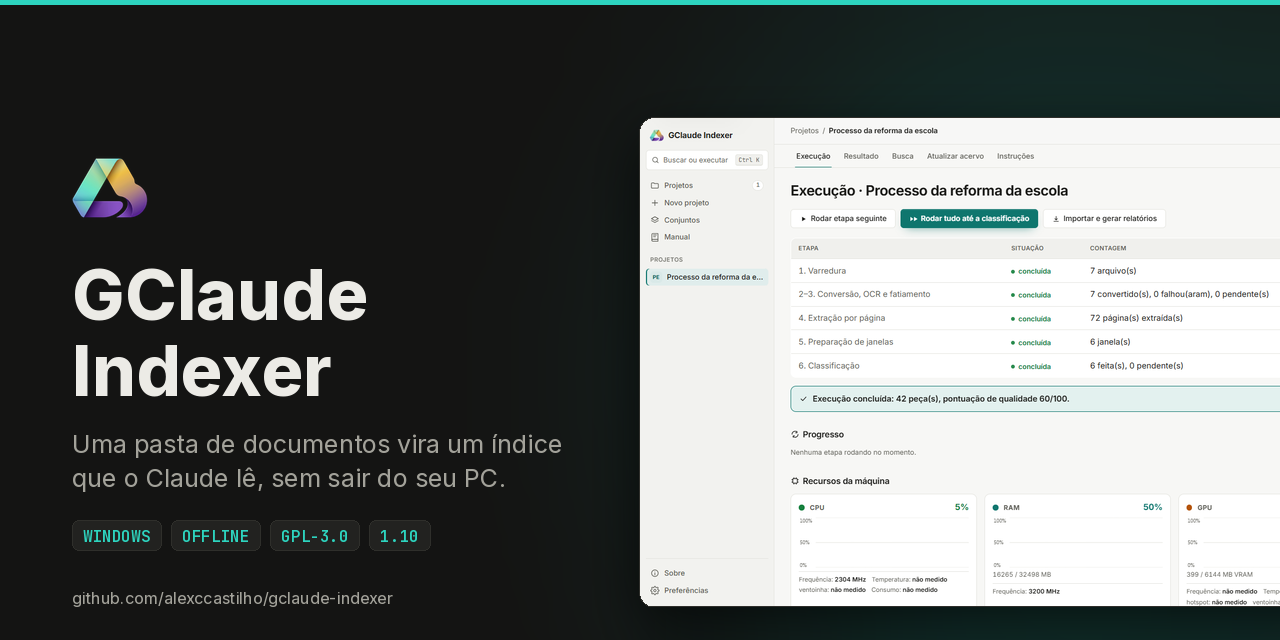
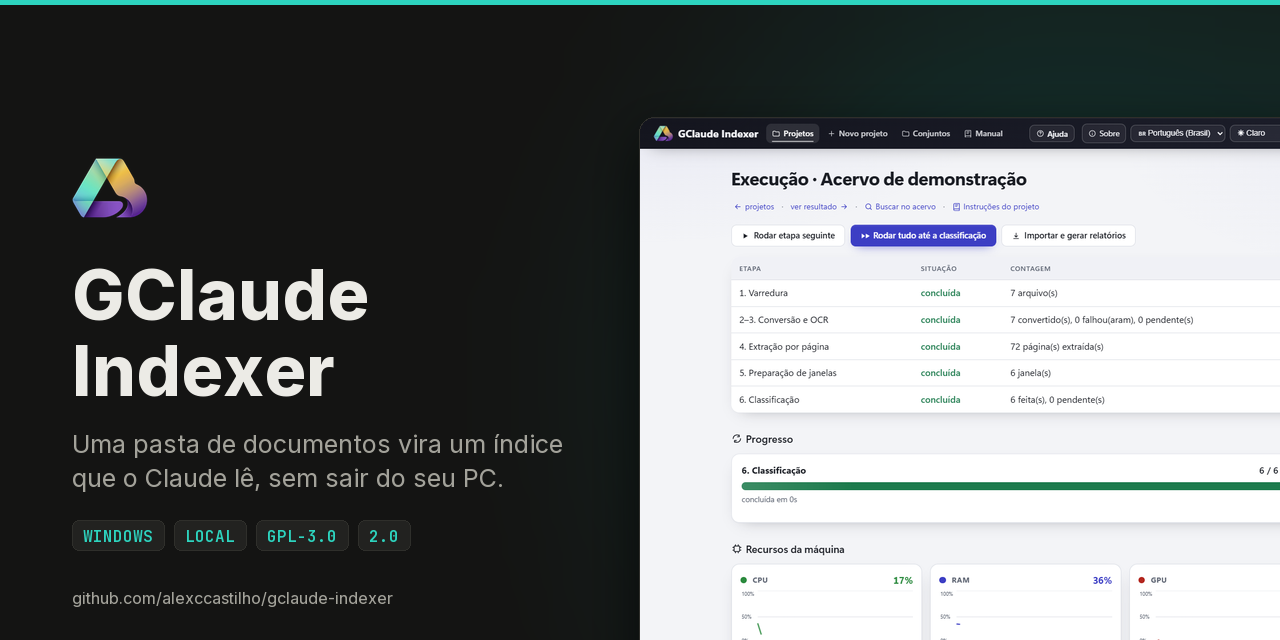
docs: correções da revisão da Task 16 (rede, motores, selo do social preview)
README e manual (pt, en, es) deixam de dizer que a única consulta externa é o
LexML: ela é a única que leva algo digitado, e o download único dos
componentes opcionais (fixados por SHA-256) é o outro uso da rede e não envia
nada dos documentos. CONTRIBUTING (pt, en, es) fala em dois motores mais o
automático, diz que o programa não chama o Claude Code e renomeia a seção que
dizia "offline". A especificação deixa de citar fatiamento, conta 14 temas e 5
layouts e não fala mais em design offline. READMEs trocam "fatiou" por
"partiu em duas", TECHNICAL passa a citar 1783 testes, SECURITY e manual
dizem que um LibreOffice 7.6 ou mais novo do sistema também é aceito, sem a
fixação por SHA-256, e a mensagem de componente pendente fica clara. O social
preview troca o selo OFFLINE por LOCAL, a versão por 2.0 e a imagem é refeita.

diff --git a/gclaude_indexer/web/templates/manual/es.html b/gclaude_indexer/web/templates/manual/es.html
@@ -135,7 +135,7 @@
 <h3>Componentes que se descargan una vez</h3>
 <p>Algunos formatos necesitan programas o datos que el instalador no trae. El programa descarga cada uno solo, una única vez, la primera vez que un documento lo necesita:</p>
 <ul>
-  <li><strong>LibreOffice</strong> (unos 370 MB), para los formatos antiguos. Corre sin ventana y sin macros, vínculos ni actualizador.</li>
+  <li><strong>LibreOffice</strong> (unos 370 MB), para los formatos antiguos. Corre sin ventana y sin macros, vínculos ni actualizador. Un LibreOffice 7.6 o más nuevo ya instalado en la máquina también se acepta; no lo cubre la fijación por SHA-256.</li>
   <li><strong>FFmpeg y whisper.cpp</strong>, con un modelo de transcripción (de 148 MB a 1,5 GB, según la computadora), para audio y vídeo.</li>
   <li><strong>Idiomas y escrituras del OCR</strong>, unos pocos MB cada uno, para páginas escaneadas en idiomas que el instalador no trajo.</li>
 </ul>
@@ -389,7 +389,7 @@
   <dt>Aparece "Solicitud rechazada"</dt><dd>Algún sitio web intentó enviar un comando al programa y fue bloqueado. Use siempre el acceso directo de GClaude Indexer o la dirección <code>http://127.0.0.1:8000</code>.</dd>
   <dt>LexML pidió verificación</dt><dd>El portal del Senado responde a los programas con una página de verificación. Abra el enlace mostrado y haga la búsqueda en el navegador.</dd>
   <dt>Archivos "ignorados" en la pantalla Ejecución</dt><dd>El programa deja fuera, a propósito, lo que no puede o no debe indexarse: comprimidos, ejecutables, bases de datos, fuentes, claves y contraseñas, binarios, medios que usted no marcó y accesos directos de Google Docs. Cada uno aparece con el motivo. Para indexar el contenido de un comprimido, extráigalo; para un acceso directo de Google, exporte el documento a DOCX, XLSX o PDF.</dd>
-  <dt>"Esperando un componente descargado bajo demanda"</dt><dd>El documento necesita LibreOffice, FFmpeg y whisper.cpp o un idioma del OCR que todavía no se descargó, y la descarga no fue posible (sin internet, o rechazada). Nada falló: el archivo vuelve a la cola en la próxima ejecución, cuando haya internet.</dd>
+  <dt>"Esperando un componente descargado bajo demanda"</dt><dd>El documento necesita un componente que todavía no se descargó (LibreOffice, FFmpeg con whisper.cpp o un idioma del OCR), y la descarga no fue posible (sin internet, o rechazada). Nada falló: el archivo vuelve a la cola en la próxima ejecución, cuando haya internet.</dd>
   <dt>Aviso de "Cambio de carpeta"</dt><dd>El proyecto tiene la salida dentro de la carpeta de origen. Abra el aviso y confirme el cambio, o aplácelo; vea <a href="#mudanca-de-pasta">Cambio de la carpeta de salida</a>.</dd>
 </dl>
 </section>
@@ -401,7 +401,7 @@
   <li>El programa solo acepta comandos de sus propias pantallas: un sitio web abierto en el navegador no puede darle órdenes.</li>
   <li>La carpeta de origen nunca se modifica.</li>
   <li>La base del proyecto guarda el texto de las páginas. Si el acervo contiene datos personales (LGPD), proteja la carpeta de salida como protegería los propios documentos, también en Google Drive.</li>
-  <li>La única consulta a un servicio externo es la búsqueda en LexML, que envía solo el término escrito: en la pantalla, solo con la casilla marcada; en <code>buscar.bat</code>, también cuando ninguna norma del acervo cita el término.</li>
+  <li>La única consulta que lleva algo que usted escribió es la búsqueda en LexML, que envía solo el término: en la pantalla, solo con la casilla marcada; en <code>buscar.bat</code>, también cuando ninguna norma del acervo cita el término. El otro uso de la red es la descarga única de los componentes opcionales (LibreOffice, FFmpeg, whisper.cpp, datos del OCR), fijados por SHA-256, que no envía nada de sus documentos.</li>
   <li>Al enviar archivos a Claude, entonces sí el contenido enviado pasa por su cuenta de Claude, según las condiciones de su plan.</li>
   <li>El programa solo descarga de internet lo que un documento necesita y el instalador no trajo (LibreOffice, FFmpeg, whisper.cpp y sus modelos, idiomas del OCR), de una lista fija con el SHA-256 de cada archivo. La solicitud lleva el nombre del componente, nunca el contenido de un documento. Sin internet, esos documentos se omiten con el motivo.</li>
 </ul>

diff --git a/gclaude_indexer/web/templates/manual/en.html b/gclaude_indexer/web/templates/manual/en.html
@@ -135,7 +135,7 @@
 <h3>Components that are downloaded once</h3>
 <p>Some formats need programs or data that the installer does not bring. The program downloads each one by itself, once, the first time a document needs it:</p>
 <ul>
-  <li><strong>LibreOffice</strong> (about 370 MB), for the old formats. It runs without a window and without macros, links or updater.</li>
+  <li><strong>LibreOffice</strong> (about 370 MB), for the old formats. It runs without a window and without macros, links or updater. A LibreOffice 7.6 or newer already installed on the machine is also accepted; it is not covered by the SHA-256 pin.</li>
   <li><strong>FFmpeg and whisper.cpp</strong>, with a transcription model (from 148 MB to 1.5 GB, depending on the computer), for audio and video.</li>
   <li><strong>OCR languages and scripts</strong>, a few MB each, for scanned pages in languages the installer did not bring.</li>
 </ul>
@@ -389,7 +389,7 @@
   <dt>"Request refused" appears</dt><dd>Some website tried to send a command to the program and was blocked. Always use the GClaude Indexer shortcut or the address <code>http://127.0.0.1:8000</code>.</dd>
   <dt>LexML asked for a check</dt><dd>The Senate's portal answers programs with a verification page. Open the link shown and run the search in the browser.</dd>
   <dt>"Ignored" files on the Execution screen</dt><dd>The program leaves out, on purpose, what cannot or should not be indexed: archives, executables, databases, fonts, keys and passwords, binaries, media you did not check and Google Docs shortcuts. Each one appears with the reason. To index the content of an archive, extract it; for a Google shortcut, export the document to DOCX, XLSX or PDF.</dd>
-  <dt>"Waiting for a component downloaded on demand"</dt><dd>The document needs LibreOffice, FFmpeg and whisper.cpp or an OCR language that has not been downloaded yet, and the download was not possible (no internet, or refused). Nothing failed: the file goes back to the queue in the next run, when there is internet.</dd>
+  <dt>"Waiting for a component downloaded on demand"</dt><dd>The document needs a component that has not been downloaded yet (LibreOffice, FFmpeg with whisper.cpp, or an OCR language), and the download was not possible (no internet, or refused). Nothing failed: the file goes back to the queue in the next run, when there is internet.</dd>
   <dt>"Folder move" notice</dt><dd>The project has its output inside the source folder. Open the notice and confirm the move, or postpone it; see <a href="#mudanca-de-pasta">Moving the output folder</a>.</dd>
 </dl>
 </section>
@@ -401,7 +401,7 @@
   <li>The program only accepts commands from its own screens: a website open in the browser cannot give it orders.</li>
   <li>The source folder is never modified.</li>
   <li>The project database stores the text of the pages. If the collection contains personal data covered by data-protection law (e.g. Brazil's LGPD, GDPR), protect the output folder as you would protect the documents themselves, including on Google Drive.</li>
-  <li>The only query to an outside service is the LexML search, which sends only the term you typed: on the screen, only with the box checked; in <code>buscar.bat</code>, also when no act in the collection cites the term.</li>
+  <li>The only query that carries anything you typed is the LexML search, which sends only the term: on the screen, only with the box checked; in <code>buscar.bat</code>, also when no act in the collection cites the term. The other network use is the one-time download of the optional components (LibreOffice, FFmpeg, whisper.cpp, OCR data), pinned by SHA-256, which sends nothing from your documents.</li>
   <li>When you send files to Claude, then yes, the content you send goes through your Claude account, under the terms of your plan.</li>
   <li>The program downloads from the internet only what a document needs and the installer did not bring (LibreOffice, FFmpeg, whisper.cpp and its models, OCR languages), from a fixed list with the SHA-256 of every file. The request carries the name of the component, never the content of a document. Without internet, those documents are skipped with the reason.</li>
 </ul>

diff --git a/gclaude_indexer/web/templates/manual/pt.html b/gclaude_indexer/web/templates/manual/pt.html
@@ -135,7 +135,7 @@
 <h3>Componentes que são baixados uma vez</h3>
 <p>Alguns formatos precisam de programas ou dados que não vêm no instalador. O programa baixa cada um sozinho, uma única vez, na primeira vez que um documento precisa dele:</p>
 <ul>
-  <li><strong>LibreOffice</strong> (cerca de 370 MB), para os formatos antigos. Roda sem janela e sem macros, vínculos nem atualizador.</li>
+  <li><strong>LibreOffice</strong> (cerca de 370 MB), para os formatos antigos. Roda sem janela e sem macros, vínculos nem atualizador. Um LibreOffice 7.6 ou mais novo já instalado na máquina também é aceito; ele não é coberto pela fixação por SHA-256.</li>
   <li><strong>FFmpeg e whisper.cpp</strong>, com um modelo de transcrição (de 148 MB a 1,5 GB, conforme o computador), para áudio e vídeo.</li>
   <li><strong>Idiomas e escritas do OCR</strong>, alguns MB cada um, para páginas digitalizadas em idiomas que o instalador não trouxe.</li>
 </ul>
@@ -389,7 +389,7 @@
   <dt>Aparece "Pedido recusado"</dt><dd>Algum site tentou enviar um comando ao programa e foi bloqueado. Use sempre o atalho do GClaude Indexer ou o endereço <code>http://127.0.0.1:8000</code>.</dd>
   <dt>O LexML pediu verificação</dt><dd>O portal do Senado responde a programas com uma página de verificação. Abra o link mostrado e faça a busca no navegador.</dd>
   <dt>Arquivos "ignorados" na tela Execução</dt><dd>O programa deixa de fora, de propósito, o que não pode ou não deve ser indexado: compactados, executáveis, bancos de dados, fontes, chaves e senhas, binários, mídia que você não marcou e atalhos do Google Docs. Cada um aparece com o motivo. Para indexar o conteúdo de um compactado, extraia-o; para um atalho do Google, exporte o documento para DOCX, XLSX ou PDF.</dd>
-  <dt>"Aguardando um componente baixado sob demanda"</dt><dd>O documento precisa do LibreOffice, do FFmpeg e do whisper.cpp ou de um idioma do OCR que ainda não foi baixado, e o download não foi possível (sem internet, ou recusado). Nada falhou: o arquivo volta para a fila na próxima execução, quando houver internet.</dd>
+  <dt>"Aguardando um componente baixado sob demanda"</dt><dd>O documento precisa de um componente que ainda não foi baixado (LibreOffice, FFmpeg com whisper.cpp ou um idioma do OCR), e o download não foi possível (sem internet, ou recusado). Nada falhou: o arquivo volta para a fila na próxima execução, quando houver internet.</dd>
   <dt>Aviso de "Mudança de pasta"</dt><dd>O projeto tem a saída dentro da pasta de origem. Abra o aviso e confirme a mudança, ou adie; veja <a href="#mudanca-de-pasta">Mudança da pasta de saída</a>.</dd>
 </dl>
 </section>
@@ -401,7 +401,7 @@
   <li>O programa só aceita comandos das próprias telas: um site aberto no navegador não consegue mandar ordens a ele.</li>
   <li>A pasta de origem nunca é modificada.</li>
   <li>O banco do projeto guarda o texto das páginas. Se o acervo tiver dados pessoais (LGPD), proteja a pasta de saída como protegeria os próprios documentos, inclusive no Google Drive.</li>
-  <li>A única consulta a um serviço externo é a busca no LexML, que envia só o termo digitado: na tela, só com a caixa marcada; no <code>buscar.bat</code>, também quando nenhuma norma do acervo cita o termo.</li>
+  <li>A única consulta que leva algo que você digitou é a busca no LexML, que envia só o termo: na tela, só com a caixa marcada; no <code>buscar.bat</code>, também quando nenhuma norma do acervo cita o termo. O outro uso da rede é o download único dos componentes opcionais (LibreOffice, FFmpeg, whisper.cpp, dados do OCR), fixados por SHA-256, que não envia nada dos seus documentos.</li>
   <li>Ao enviar arquivos ao Claude, aí sim o conteúdo enviado passa pela sua conta do Claude, nas condições do seu plano.</li>
   <li>O programa só baixa da internet o que um documento precisa e não veio no instalador (LibreOffice, FFmpeg, whisper.cpp e seus modelos, idiomas do OCR), de uma lista fixa com o SHA-256 de cada arquivo. O pedido leva o nome do componente, nunca o conteúdo de um documento. Sem internet, esses documentos são pulados com o motivo.</li>
 </ul>

diff --git a/docs/social-preview.py b/docs/social-preview.py
@@ -34,7 +34,7 @@ from PIL import Image, ImageDraw, ImageFilter, ImageFont
 RAIZ = Path(__file__).resolve().parent.parent
 DOCS = RAIZ / "docs" / "media"
 FONTES = RAIZ / "gclaude_indexer" / "web" / "static" / "fonts"
-VERSAO = "1.10"
+VERSAO = "2.0"
 
 LARGURA, ALTURA = 1280, 640
 
@@ -110,7 +110,7 @@ def compor(linhas: tuple[str, str], captura: str, saida: str) -> Path:
     # Selos em fonte mono, numa pílula discreta cada.
     selo = _mono(16, 600)
     x = X_TEXTO
-    for texto in ("WINDOWS", "OFFLINE", "GPL-3.0", VERSAO):
+    for texto in ("WINDOWS", "LOCAL", "GPL-3.0", VERSAO):
         largura = desenho.textlength(texto, font=selo) + 22
         desenho.rounded_rectangle([x, 520, x + largura, 550], 7, fill=SUPERFICIE, outline=BORDA)
         desenho.text((x + 11, 525), texto, font=selo, fill=DESTAQUE)
@@ -129,7 +129,7 @@ def compor(linhas: tuple[str, str], captura: str, saida: str) -> Path:
 
 def main() -> int:
     gerados = [
-        compor(("A folder of documents becomes an index", "Claude can read, offline on your PC."),
+        compor(("A folder of documents becomes an index", "Claude can read, locally on your PC."),
                "run-en.png", "social-preview.png"),
         compor(("Uma pasta de documentos vira um índice", "que o Claude lê, sem sair do seu PC."),
                "run-pt.png", "social-preview-pt-BR.png"),

diff --git a/docs/CONTRIBUTING.es.md b/docs/CONTRIBUTING.es.md
@@ -10,12 +10,12 @@ GClaude Indexer funciona **solo en Windows**. No es una laguna de portabilidad q
 
 ## No necesita Claude Code
 
-El nombre del proyecto menciona a Claude, pero **Claude Code es opcional**, tanto para usar el programa como para contribuir. La clasificación de las piezas la hace uno de tres motores intercambiables (más un modo `automatic`, que elige entre los dos primeros según el hardware de la máquina):
+El nombre del proyecto menciona a Claude, pero **Claude Code es opcional**, tanto para usar el programa como para contribuir. La clasificación de las piezas la hace uno de dos motores intercambiables (más un modo `automatic`, que elige entre ellos según el hardware de la máquina):
 
 - `rules`: determinista, no exige ninguna herramienta externa.
 - `local`: usa un modelo de Ollama que corre localmente.
 
-Los motores `rules` y `local` bastan para ejecutar el flujo completo y trabajar en casi todo este repositorio. Solo necesita Claude Code si está tocando `gclaude_indexer/claude_package.py`, y aun así la suite de pruebas simula la llamada al subproceso. No hace falta tener Claude Code instalado para ejecutar las pruebas.
+Los motores `rules` y `local` bastan para ejecutar el flujo completo y trabajar en casi todo este repositorio. El programa nunca llama a Claude Code: `gclaude_indexer/claude_package.py` solo arma el `.zip` de un Project de Claude. No hace falta tener Claude Code instalado para trabajar en nada de esto ni para ejecutar las pruebas.
 
 ## Preparar el entorno
 
@@ -75,7 +75,7 @@ El código (identificadores, comentarios, docstrings, esquema de la base) está 
 
 Un comentario que explica una decisión no obvia dice qué se midió, dónde y cuándo ("flash attention duplicó el tiempo de lectura del prompt en la RX 6000 (12 GB) vía Vulkan, 02/11/2026"). Quien lea dos versiones después puede medir de nuevo en vez de adivinar si el motivo sigue valiendo.
 
-### El proyecto es offline
+### Sin red, salvo lo que se lista aquí
 
 Ninguna llamada de red en tiempo de ejecución, salvo a `http://127.0.0.1:11434` (el Ollama local, siempre loopback, nunca configurable hacia un servidor remoto) y el servicio de búsqueda de LexML (en la pantalla, solo con la casilla marcada; en `buscar.bat`, también cuando ninguna norma del acervo cita el término), que envía solo el término escrito y nunca nada del acervo. La única otra excepción son las descargas de componentes bajo demanda (`gclaude_indexer/components.py`: LibreOffice, FFmpeg, whisper.cpp y sus modelos, idiomas del OCR): solo desde un manifiesto en `gclaude_indexer/manifests/` que fija la URL, el tamaño y el SHA-256 de cada archivo, por HTTPS (redirecciones incluidas), llevando el nombre del componente y nunca nada del acervo. Un componente nuevo entra en el manifiesto, nunca en una URL escrita en el código, y un documento que necesita un componente ausente se omite con el motivo, nunca se marca como fallido. La suite de pruebas reemplaza `components._open_url`, así que ninguna prueba toca la red. No agregue dependencias que necesiten red para funcionar. El prompt del clasificador, el vocabulario de las reglas y el lector del Planalto son perillas de comportamiento: cambiarlos exige una nueva medición contra `demo/gabarito.csv` y la actualización de `docs/QUALITY.md`.
 

diff --git a/docs/CONTRIBUTING.pt-BR.md b/docs/CONTRIBUTING.pt-BR.md
@@ -10,12 +10,12 @@ O GClaude Indexer roda **só no Windows**. Não é uma lacuna de portabilidade a
 
 ## Você não precisa do Claude Code
 
-O nome do projeto menciona o Claude, mas **o Claude Code é opcional**, tanto para usar o programa quanto para contribuir. A classificação das peças é feita por um de três motores intercambiáveis (mais um modo `automatic`, que escolhe entre os dois primeiros pelo hardware da máquina):
+O nome do projeto menciona o Claude, mas **o Claude Code é opcional**, tanto para usar o programa quanto para contribuir. A classificação das peças é feita por um de dois motores intercambiáveis (mais um modo `automatic`, que escolhe entre eles pelo hardware da máquina):
 
 - `rules`: determinístico, não exige nenhuma ferramenta externa.
 - `local`: usa um modelo do Ollama rodando localmente.
 
-Os motores `rules` e `local` bastam para rodar o fluxo inteiro e trabalhar em quase tudo deste repositório. Você só precisa do Claude Code se estiver mexendo em `gclaude_indexer/claude_package.py`, e mesmo assim a suíte de testes simula a chamada de subprocesso. Não é preciso ter o Claude Code instalado para rodar os testes.
+Os motores `rules` e `local` bastam para rodar o fluxo inteiro e trabalhar em quase tudo deste repositório. O programa nunca chama o Claude Code: `gclaude_indexer/claude_package.py` só monta o `.zip` de um Project do Claude. Não é preciso ter o Claude Code instalado para trabalhar em nada disso nem para rodar os testes.
 
 ## Preparando o ambiente
 
@@ -75,7 +75,7 @@ O código (identificadores, comentários, docstrings, esquema do banco) está em
 
 Um comentário que explica uma decisão não óbvia diz o que foi medido, onde e quando ("a flash attention dobrou o tempo de leitura do prompt na RX 6000 (12 GB) via Vulkan, 02/11/2026"). Quem ler duas versões depois pode medir de novo em vez de adivinhar se o motivo ainda vale.
 
-### O projeto é offline
+### Sem rede, exceto o que está listado aqui
 
 Nenhuma chamada de rede em tempo de execução, exceto para `http://127.0.0.1:11434` (o Ollama local, sempre loopback, nunca configurável para um servidor remoto) e o serviço de busca do LexML (na tela, só com a caixa marcada; no `buscar.bat`, também quando nenhuma norma do acervo cita o termo), que envia só o termo digitado e nunca nada do acervo. A única outra exceção são os downloads de componentes sob demanda (`gclaude_indexer/components.py`: LibreOffice, FFmpeg, whisper.cpp e seus modelos, idiomas do OCR): só de um manifesto em `gclaude_indexer/manifests/` que fixa a URL, o tamanho e o SHA-256 de cada arquivo, por HTTPS (redirecionamentos inclusive), levando o nome do componente e nunca nada do acervo. Um componente novo entra no manifesto, nunca numa URL escrita no código, e um documento que precisa de um componente ausente é pulado com o motivo, nunca marcado como falha. A suíte de testes substitui `components._open_url`, então nenhum teste toca a rede. Não acrescente dependência que precise de rede para funcionar. O prompt do classificador, o vocabulário das regras e o leitor do Planalto são botões de comportamento: mudanças neles exigem uma nova medição contra `demo/gabarito.csv` e a atualização de `docs/QUALITY.md`.
 

diff --git a/docs/README.es.md b/docs/README.es.md
@@ -94,7 +94,7 @@ En toda pantalla, el botón **Ayuda** resume la pantalla y el **?** al lado de c
 
 ## Cuánto acierta
 
-El índice se mide contra la clave de respuestas del acervo de demostración en cada versión que toque el clasificador, y una prueba automática en GitHub repite la medición con cada cambio en el código. En la última medición (02/11/2026), ninguna página se perdió con ninguno de los dos motores. El motor de reglas encontró 36 de las 41 piezas en 4 segundos y acertó el tipo del 94% de ellas, pero la fecha de solo la mitad de ellas y el autor de solo una de cada cinco. El modelo local (`qwen3.5:9b`) tardó 4 minutos, acertó la fecha del 89% y el autor del 84% de las piezas encontradas, y cortó más piezas de las que debía.
+El índice se mide contra la clave de respuestas del acervo de demostración en cada versión que toque el clasificador, y una prueba automática en GitHub repite la medición con cada cambio en el código. En la última medición (02/11/2026), ninguna página se perdió con ninguno de los dos motores. El motor de reglas encontró 36 de las 41 piezas en 4 segundos y acertó el tipo del 94% de ellas, pero la fecha de solo la mitad de ellas y el autor de solo una de cada cinco. El modelo local (`qwen3.5:9b`) tardó 4 minutos, acertó la fecha del 89% y el autor del 84% de las piezas encontradas, y partió algunas piezas en dos.
 
 Lo que eso quiere decir en la práctica: toda página del acervo está en el índice, aunque el tipo o la fecha salgan mal, y Claude verifica el texto en el documento original antes de responder; así lo ordenan las instrucciones. Los números completos, lo que significa cada uno y lo que no dicen están en [docs/QUALITY.es.md](QUALITY.es.md).
 
@@ -105,7 +105,7 @@ Lo que eso quiere decir en la práctica: toda página del acervo está en el ín
 - El programa solo escucha en su propia máquina (`127.0.0.1`) y solo acepta pedidos de sus propias pantallas: un sitio abierto en el navegador no puede darle órdenes.
 - La carpeta de origen nunca se modifica. Todo lo que el programa produce va a la carpeta de salida.
 - La base del proyecto (`project.db`) guarda el texto de las páginas. Si el acervo tiene datos personales, proteja la carpeta de salida como protegería los documentos, también en Google Drive.
-- El contenido llega a Claude solo cuando usted lo envía: al subir los archivos del índice a un Project o al mandar un documento. La única consulta externa es la búsqueda en LexML, que envía solo el término que usted escribió: en la pantalla, solo con la casilla marcada; en `buscar.bat`, también cuando ninguna norma del acervo cita el término.
+- El contenido llega a Claude solo cuando usted lo envía: al subir los archivos del índice a un Project o al mandar un documento. La única consulta que lleva algo que usted escribió es la búsqueda en LexML, que envía solo el término: en la pantalla, solo con la casilla marcada; en `buscar.bat`, también cuando ninguna norma del acervo cita el término. El otro uso de la red es la descarga única de los componentes opcionales (LibreOffice, FFmpeg, whisper.cpp, datos del OCR), fijados por SHA-256, que no envía nada de sus documentos.
 
 ## Varios acervos en un Project
 

diff --git a/CONTRIBUTING.md b/CONTRIBUTING.md
@@ -10,12 +10,12 @@ GClaude Indexer runs on **Windows only**. It is not a portability gap to be fixe
 
 ## You do not need Claude Code
 
-The project name mentions Claude, but **Claude Code is optional**, both to use the software and to contribute to it. Classification of collection items is done by one of three interchangeable engines (plus an `automatic` mode that picks between the first two based on the machine's hardware):
+The project name mentions Claude, but **Claude Code is optional**, both to use the software and to contribute to it. Classification of collection items is done by one of two interchangeable engines (plus an `automatic` mode that picks between them based on the machine's hardware):
 
 - `rules`: deterministic, no external tool required.
 - `local`: uses a local Ollama model.
 
-The `rules` and `local` engines are enough to run the full pipeline end to end and to work on almost anything in this repository. You only need Claude Code if you are working on `gclaude_indexer/claude_package.py`, and even then the test suite mocks the subprocess call. You do not need Claude Code installed to run the tests.
+The `rules` and `local` engines are enough to run the full pipeline end to end and to work on almost anything in this repository. The program never calls Claude Code: `gclaude_indexer/claude_package.py` only builds the `.zip` for a Claude Project. You do not need Claude Code installed to work on any of it or to run the tests.
 
 ## Setting up the environment
 
@@ -75,7 +75,7 @@ The codebase (identifiers, comments, docstrings, database schema) is in English;
 
 A comment that explains a non-obvious decision states what was measured, where and when ("flash attention doubled prompt reading time on the RX 6000 (12 GB) via Vulkan, 02/11/2026"). A reader two versions later can then re-measure instead of guessing whether the reason still holds.
 
-### The project is offline
+### No network, except what is listed here
 
 No runtime network calls, except to `http://127.0.0.1:11434` (the local Ollama instance, always loopback, never configurable to a remote host) and the LexML search service (opt-in on the screen; in `buscar.bat`, also when no act in the collection cites the term), which sends only the term the user typed and never anything from the collection. The one other exception is the on-demand component downloads (`gclaude_indexer/components.py`: LibreOffice, FFmpeg, whisper.cpp and its models, OCR languages): only from a manifest in `gclaude_indexer/manifests/` that pins the URL, the size and the SHA-256 of every file, over HTTPS (redirects included), carrying the component's name and never anything from the collection. A new component goes into the manifest, never into a URL written in the code, and a document that needs a missing component is skipped with a reason, never failed. The test suite replaces `components._open_url`, so no test touches the network. Do not add a dependency that requires network access to function. The classifier prompt, the rules vocabulary and the Planalto reader are behavior knobs: changes to them need a new measurement against `demo/gabarito.csv` and an update to `docs/QUALITY.md`.
 

diff --git a/README.md b/README.md
@@ -94,7 +94,7 @@ On every screen, the **Help** button summarizes the screen and the **?** next to
 
 ## How accurate it is
 
-The index is measured against the demo collection's answer key at every version that touches the classifier, and an automatic test on GitHub repeats the measurement at every code change. In the last measurement (02/11/2026), no page was lost with either engine. The rules engine found 36 of the 41 items in 4 seconds and got the type right for 94% of them, but the date for only half of them and the author for only one in five. The local model (`qwen3.5:9b`) took 4 minutes, got the date right for 89% and the author for 84% of the items found, and sliced more items than it should.
+The index is measured against the demo collection's answer key at every version that touches the classifier, and an automatic test on GitHub repeats the measurement at every code change. In the last measurement (02/11/2026), no page was lost with either engine. The rules engine found 36 of the 41 items in 4 seconds and got the type right for 94% of them, but the date for only half of them and the author for only one in five. The local model (`qwen3.5:9b`) took 4 minutes, got the date right for 89% and the author for 84% of the items found, and split some items in two.
 
 What that means in practice: every page of the collection is in the index, even when the type or the date come out wrong, and Claude checks the text in the original document before answering; that is what the instructions tell it to do. The full numbers, what each one means and what they do not say are in [docs/QUALITY.md](docs/QUALITY.md).
 
@@ -105,7 +105,7 @@ What that means in practice: every page of the collection is in the index, even 
 - The program listens only on your own machine (`127.0.0.1`) and accepts requests only from its own screens: a website open in the browser cannot give it orders.
 - The source folder is never changed. Everything the program produces goes to the output folder.
 - The project database (`project.db`) holds the text of the pages. If the collection has personal data, protect the output folder as you would protect the documents, including on Google Drive.
-- Content reaches Claude only when you send it: when you upload the index files to a Project, or when you send a document. The only external query is the LexML search, which sends only the term you typed: on the screen, only with the box checked; in `buscar.bat`, also when no act in the collection cites the term.
+- Content reaches Claude only when you send it: when you upload the index files to a Project, or when you send a document. The only query that carries anything you typed is the LexML search, which sends only the term: on the screen, only with the box checked; in `buscar.bat`, also when no act in the collection cites the term. The other network use is the one-time download of the optional components (LibreOffice, FFmpeg, whisper.cpp, OCR data), pinned by SHA-256, which sends nothing from your documents.
 
 ## Several collections in one Project
 

diff --git a/docs/README.pt-BR.md b/docs/README.pt-BR.md
@@ -94,7 +94,7 @@ Em toda tela, o botão **Ajuda** resume a tela e o **?** ao lado de cada campo e
 
 ## Quanto acerta
 
-O índice é medido contra o gabarito do acervo de demonstração a cada versão que mexa no classificador, e um teste automático no GitHub repete a medição a cada mudança no código. Na última medição (02/11/2026), nenhuma página se perdeu em nenhum dos dois motores. O motor de regras encontrou 36 das 41 peças em 4 segundos e acertou o tipo de 94% delas, mas a data de só metade delas e o autor de só uma em cada cinco. O modelo local (`qwen3.5:9b`) levou 4 minutos, acertou a data de 89% e o autor de 84% das peças encontradas, e fatiou mais peças do que devia.
+O índice é medido contra o gabarito do acervo de demonstração a cada versão que mexa no classificador, e um teste automático no GitHub repete a medição a cada mudança no código. Na última medição (02/11/2026), nenhuma página se perdeu em nenhum dos dois motores. O motor de regras encontrou 36 das 41 peças em 4 segundos e acertou o tipo de 94% delas, mas a data de só metade delas e o autor de só uma em cada cinco. O modelo local (`qwen3.5:9b`) levou 4 minutos, acertou a data de 89% e o autor de 84% das peças encontradas, e partiu algumas peças em duas.
 
 O que isso quer dizer na prática: toda página do acervo está no índice, mesmo quando o tipo ou a data saem errados, e o Claude confere o texto no documento original antes de responder; é assim que as instruções mandam. Os números completos, o que cada um significa e o que eles não dizem estão em [docs/QUALITY.pt-BR.md](QUALITY.pt-BR.md).
 
@@ -105,7 +105,7 @@ O que isso quer dizer na prática: toda página do acervo está no índice, mesm
 - O programa só escuta na sua própria máquina (`127.0.0.1`) e só aceita pedidos das próprias telas: um site aberto no navegador não consegue dar ordens a ele.
 - A pasta de origem nunca é alterada. Tudo o que o programa produz vai para a pasta de saída.
 - O banco do projeto (`project.db`) guarda o texto das páginas. Se o acervo tiver dados pessoais, proteja a pasta de saída como protegeria os documentos, inclusive no Google Drive.
-- O conteúdo chega ao Claude só quando você envia: ao subir os arquivos do índice num Project ou ao mandar um documento. A única consulta externa é a busca no LexML, que envia só o termo que você digitou: na tela, só com a caixa marcada; no `buscar.bat`, também quando nenhuma norma do acervo cita o termo.
+- O conteúdo chega ao Claude só quando você envia: ao subir os arquivos do índice num Project ou ao mandar um documento. A única consulta que leva algo que você digitou é a busca no LexML, que envia só o termo: na tela, só com a caixa marcada; no `buscar.bat`, também quando nenhuma norma do acervo cita o termo. O outro uso da rede é o download único dos componentes opcionais (LibreOffice, FFmpeg, whisper.cpp, dados do OCR), fixados por SHA-256, que não envia nada dos seus documentos.
 
 ## Vários acervos num Project
 

diff --git a/docs/SPECIFICATION.md b/docs/SPECIFICATION.md
@@ -65,7 +65,7 @@ original file.
 | Language | Python 3.12 | mature document libraries; newer interpreters (3.13/3.14) are known to break this project's pinned dependency versions |
 | Interface | FastAPI + Jinja2 + HTMX | forms and progress updates with no separate front-end build |
 | Database | SQLite via the standard library's `sqlite3` | one file per project, zero installation |
-| PDF | PyMuPDF | reading, page counting, slicing, image detection |
+| PDF | PyMuPDF | reading, page counting, image detection, page rendering for OCR |
 | OCR | ocrmypdf + Tesseract | text layer without altering the original image |
 | DOCX | python-docx | text and tables |
 | XLSX | openpyxl | cells as tabulated text |
@@ -713,16 +713,16 @@ the **last** import, because `import_and_consolidate` recreates the whole
 `None` score, never a number computed over items that no longer belong to
 that engine/model.
 
-A language selector and a theme selector (four color themes: light, dark,
-sepia, high-contrast) sit in the header of every screen, in a `<select>`
-each, persisted in a cookie. A separate layout selector (four layouts:
-standard, technical, editorial, compact — `web/layout.py` +
-`static/layouts.css`) is orthogonal to the theme: 4 layouts × 4 palettes,
+A language selector and a theme selector (14 color themes, among them light, dark,
+sepia, high-contrast, Studio, Glass and Apple) sit in the header of every screen, in a `<select>`
+each, persisted in a cookie. A separate layout selector (five layouts:
+workspace, standard, technical, editorial, compact — `web/layout.py` +
+`static/layouts.css`) is orthogonal to the theme: 5 layouts × 14 palettes,
 same Jinja2 templates for all of them, varying only via `data-layout` and
 CSS rules. All fonts used across every layout (Segoe UI, Cascadia Mono,
 Constantia, Corbel and equivalents) ship with Windows itself — never Google
 Fonts nor any font loaded from outside the machine, keeping the interface
-consistent with the project's offline design.
+consistent with the project's rule of loading nothing from outside the machine.
 
 Step status (`step_state.py`) is always a stable ASCII key
 (`"done"`, `"scan"`, ...), never screen text — the template translates the

diff --git a/docs/TECHNICAL.es.md b/docs/TECHNICAL.es.md
@@ -324,7 +324,7 @@ Si está contribuyendo con cambios, o quiere confirmar que todo funciona despué
 & "$env:LOCALAPPDATA\GClaudeIndexer\venv\Scripts\python.exe" -B -m pytest -q
 ```
 
-Una ejecución correcta termina con una línea como `1197 passed, ... warnings in ...s` y ninguna falla. El número de pruebas crece con el tiempo; los avisos vienen de bibliotecas de terceros, y la cuenta puede variar entre máquinas. La suite no habla con el Ollama real ni con la red, y nunca detiene el Ollama de la máquina. Vea [CONTRIBUTING.es.md](CONTRIBUTING.es.md) (original en inglés: [CONTRIBUTING.md](../CONTRIBUTING.md)) para la preparación completa de un entorno de desarrollo. El CI de GitHub ejecuta la suite e indexa el acervo de demostración en cada push, adjuntando el informe de acierto a la corrida.
+Una ejecución correcta termina con una línea como `1783 passed, ... warnings in ...s` y ninguna falla. El número de pruebas crece con el tiempo; los avisos vienen de bibliotecas de terceros, y la cuenta puede variar entre máquinas. La suite no habla con el Ollama real ni con la red, y nunca detiene el Ollama de la máquina. Vea [CONTRIBUTING.es.md](CONTRIBUTING.es.md) (original en inglés: [CONTRIBUTING.md](../CONTRIBUTING.md)) para la preparación completa de un entorno de desarrollo. El CI de GitHub ejecuta la suite e indexa el acervo de demostración en cada push, adjuntando el informe de acierto a la corrida.
 
 ## Solución de problemas
 
